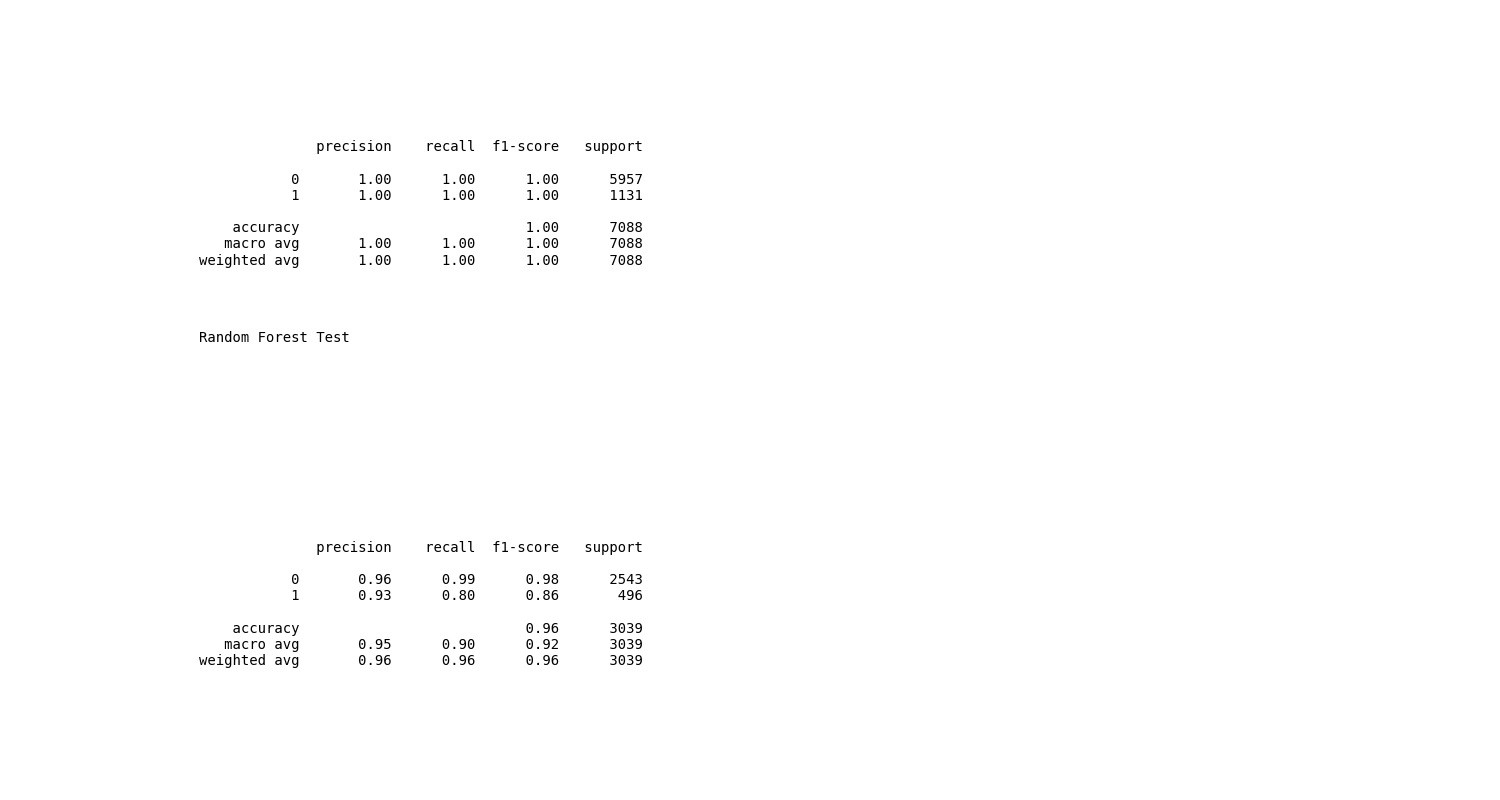
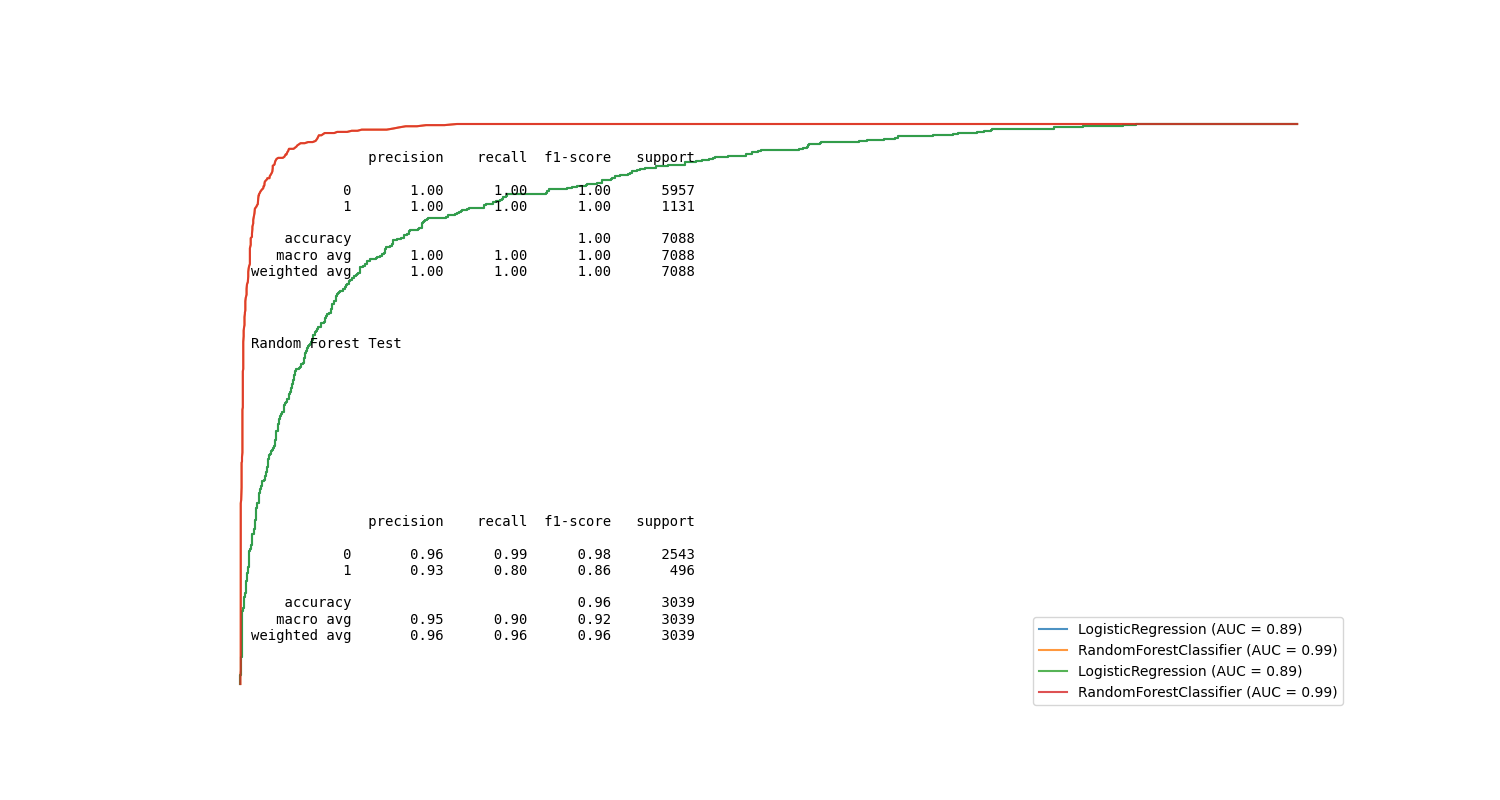
Refactored the churn_library() module to save all relevant visualizations & included module level docstring

diff --git a/churn_library.py b/churn_library.py
@@ -1,6 +1,10 @@
 """This modules demonstrates implementation of a simple end-to-end
 machine learning implementation using Python PEP8 best coding and
-practices"""
+practices
+
+Author: Ed Mwanza
+
+Date: 5/16/22"""
 
 
 # import libraries
@@ -19,7 +23,7 @@ from sklearn.linear_model import LogisticRegression
 from sklearn.ensemble import RandomForestClassifier
 from sklearn.model_selection import GridSearchCV
 
-from sklearn.metrics import classification_report
+from sklearn.metrics import plot_roc_curve, classification_report
 
 
 os.environ['QT_QPA_PLATFORM'] = 'offscreen'
@@ -51,28 +55,34 @@ def perform_eda(data: pd.DataFrame, figsize=(20, 10)) -> pd.DataFrame:
             data_out: pandas dataframe
     '''
     data_eda = data.copy(deep=True)
-    plt.figure(figsize=figsize)
+
     # Churn
+    plt.figure(figsize=figsize)
     data_eda['Churn'] = data_eda['Attrition_Flag'].apply(
         lambda val: 0 if val == "Existing Customer" else 1)
 
     # Churn Distribution
+    plt.figure(figsize=figsize)
     data_eda['Churn'].hist()
     plt.savefig(fname='./images/eda/churn_distribution.png')
 
     # Customer Age Distribution
+    plt.figure(figsize=figsize)
     data_eda['Customer_Age'].hist()
     plt.savefig(fname='./images/eda/customer_age_distribution.png')
 
     # Normalized Marital Status Distribution
+    plt.figure(figsize=figsize)
     data_eda.Marital_Status.value_counts('normalize').plot(kind='bar')
     plt.savefig(fname='./images/eda/marital_status_distribution.png')
 
     # Total Transaction Distribution
-    sns.histplot(data_eda['Total_Trans_Ct'], stat='density', kde=True)
+    plt.figure(figsize=figsize)
+    sns.histplot(data_eda, x='Total_Trans_Ct', stat='density', kde=True)
     plt.savefig(fname='./images/eda/total_transaction_distribution.png')
 
     # Correlation map
+    plt.figure(figsize=figsize)
     sns.heatmap(data_eda.corr(), annot=False, cmap='Dark2_r', linewidths=2)
     plt.savefig(fname='./images/eda/corr.png')
 
@@ -179,9 +189,11 @@ def perform_feature_engineering(data: pd.DataFrame,
     return (
         x_train, x_test, y_train, y_test)
 
+# Pylint penalty: too-many-args
+# Correction: put the dataframes in - List[pd.DataFrame] then index into list.
 
-def classification_report_image(y_train: pd.DataFrame,
-                                y_test: pd.DataFrame,
+
+def classification_report_image(y_train_test: List[pd.DataFrame],
                                 y_train_preds_lr: List[float],
                                 y_train_preds_rf: List[float],
                                 y_test_preds_lr: List[float],
@@ -199,6 +211,9 @@ def classification_report_image(y_train: pd.DataFrame,
     output:
         None
     '''
+    # Extract y_train & y_test from y_train_test
+    y_train = y_train_test[0]
+    y_test = y_train_test[1]
     # RandomForestClassifier
     plt.rc('figure', figsize=(6, 6))
     plt.text(0.01, 1.25,
@@ -316,10 +331,19 @@ def train_models(
 
     # Compute ROC curve
     plt.figure(figsize=(15, 8))
+    axis = plt.gca()
+    lrc_plot = plot_roc_curve(lrc, x_test, y_test, ax=axis, alpha=0.8)
+    rfc_disp = plot_roc_curve(cv_rfc.best_estimator_,
+                              x_test, y_test, ax=axis, alpha=0.8)
+    lrc_plot.plot(ax=axis, alpha=0.8)
+    rfc_disp.plot(ax=axis, alpha=0.8)
     plt.savefig(fname='./images/results/roc_curve_result.png')
 
+    # Create y_train_test list
+    y_train_test = [y_train, y_test]
+
     # Compute and results
-    classification_report_image(y_train, y_test,
+    classification_report_image(y_train_test,
                                 y_train_preds_lr, y_train_preds_rf,
                                 y_test_preds_lr, y_test_preds_rf)
 

diff --git a/README.md b/README.md
@@ -27,6 +27,7 @@ The project directory is structured as follows:
 
 
 ```
+├── requirements.txt     # Contains used libraries for reproducibility
 ├── Guide.ipynb          # Getting started and troubleshooting tips
 ├── churn_notebook.ipynb # Contains the code to be refactored
 ├── churn_library.py     # Defines the functions
@@ -41,18 +42,18 @@ The project directory is structured as follows:
 └── models 
 ```
 
-## Running Files
-To run the programs on the command line:
+## Running the Test and Logging Results
+There are two ways to test the script:
+
+- Directly executing the command (requires main() function): 
 
 ```
-$ python churn_library.py
+$ ipython churn_script_logging_and_tests.py
 ```
-
-For style checking & error spotting, run code as follows on the CLI:
+- Using pytest command:
 
 ```
-$ pylint churn_library.py
-$ pylint churn_script_logging_and_tests.py
+$ pytest churn_script_logging_and_tests.py
 ```
 
 NOTE: Make sure you have pylint installed.
